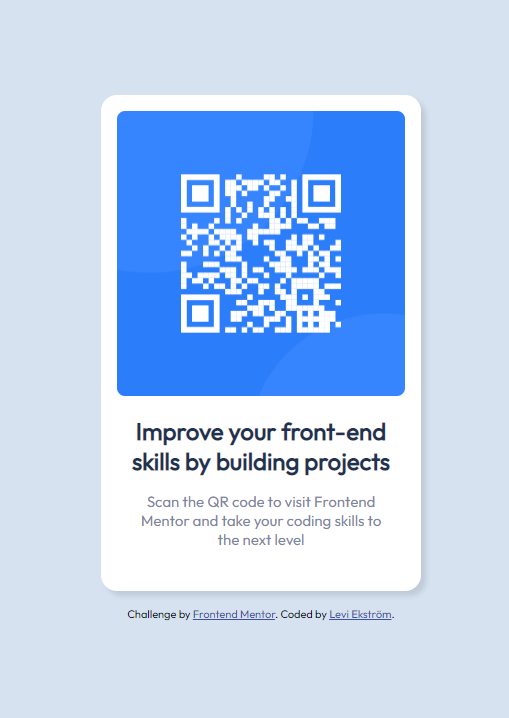
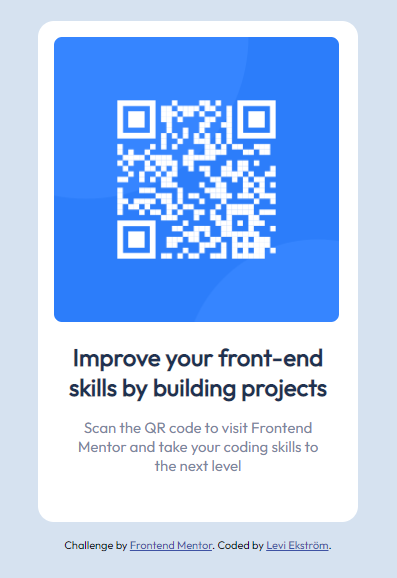
Add files via upload
updates on challenge 1

diff --git a/challenge-1/styles.css b/challenge-1/styles.css
@@ -5,11 +5,11 @@ body {
     flex-direction: column;
     align-items: center;
     justify-content: center;
-    height: 100vh;
+    min-height: 100vh;
 }
 
 img {
-    width: 100%;
+    max-width: 100%;
     border-radius: 0.5rem;
     max-height: 19rem;
     max-width: 20rem;
@@ -35,13 +35,11 @@ p {
 
 .card {
     background-color: hsl(0, 0%, 100%);
-    box-shadow: 5px 5px 5px rgba(0, 0, 0, 0.1);
     border-radius: 1rem;
     max-width: 18rem;
     padding: 1rem;
     padding-bottom: 2rem;
     margin-bottom: 1rem;
-    height: 28rem;
 }
 
 .attribution {

diff --git a/challenge-1/index.html b/challenge-1/index.html
@@ -20,13 +20,13 @@
 
 <body>
 
-  <div class="card">
+  <main class="card">
 
-    <img src=".\images\image-qr-code.png" width=285 height=285>
+    <img src=".\images\image-qr-code.png" width=285 height=285 alt="qr code">
     <h1>Improve your front-end skills by building projects</h1>
     <p>Scan the QR code to visit Frontend Mentor and take your coding skills to the next level</p>
 
-  </div>
+  </main>
 
   <footer>
 

diff --git a/challenge-1/README.md b/challenge-1/README.md
@@ -1,0 +1,17 @@
+# Frontend Mentor - QR code component solution
+
+This is a solution to the [QR code component challenge on Frontend Mentor](https://www.frontendmentor.io/challenges/qr-code-component-iux_sIO_H). Frontend Mentor challenges help you improve your coding skills by building realistic projects. 
+
+  - [Screenshot](#screenshot)
+  - [Links](#links)
+
+
+### Screenshot
+
+![](./images/qrcode-solution.PNG)
+
+### Links
+
+- Solution URL: [Add solution URL here](https://www.frontendmentor.io/solutions/qr-code-component-OXZrYRUPzV#comment-63d0638e7dc817acacf40561)
+- Live Site URL: [Add live site URL here](https://frontend-mentor-challenges-vojtechlevi.vercel.app/)
+
